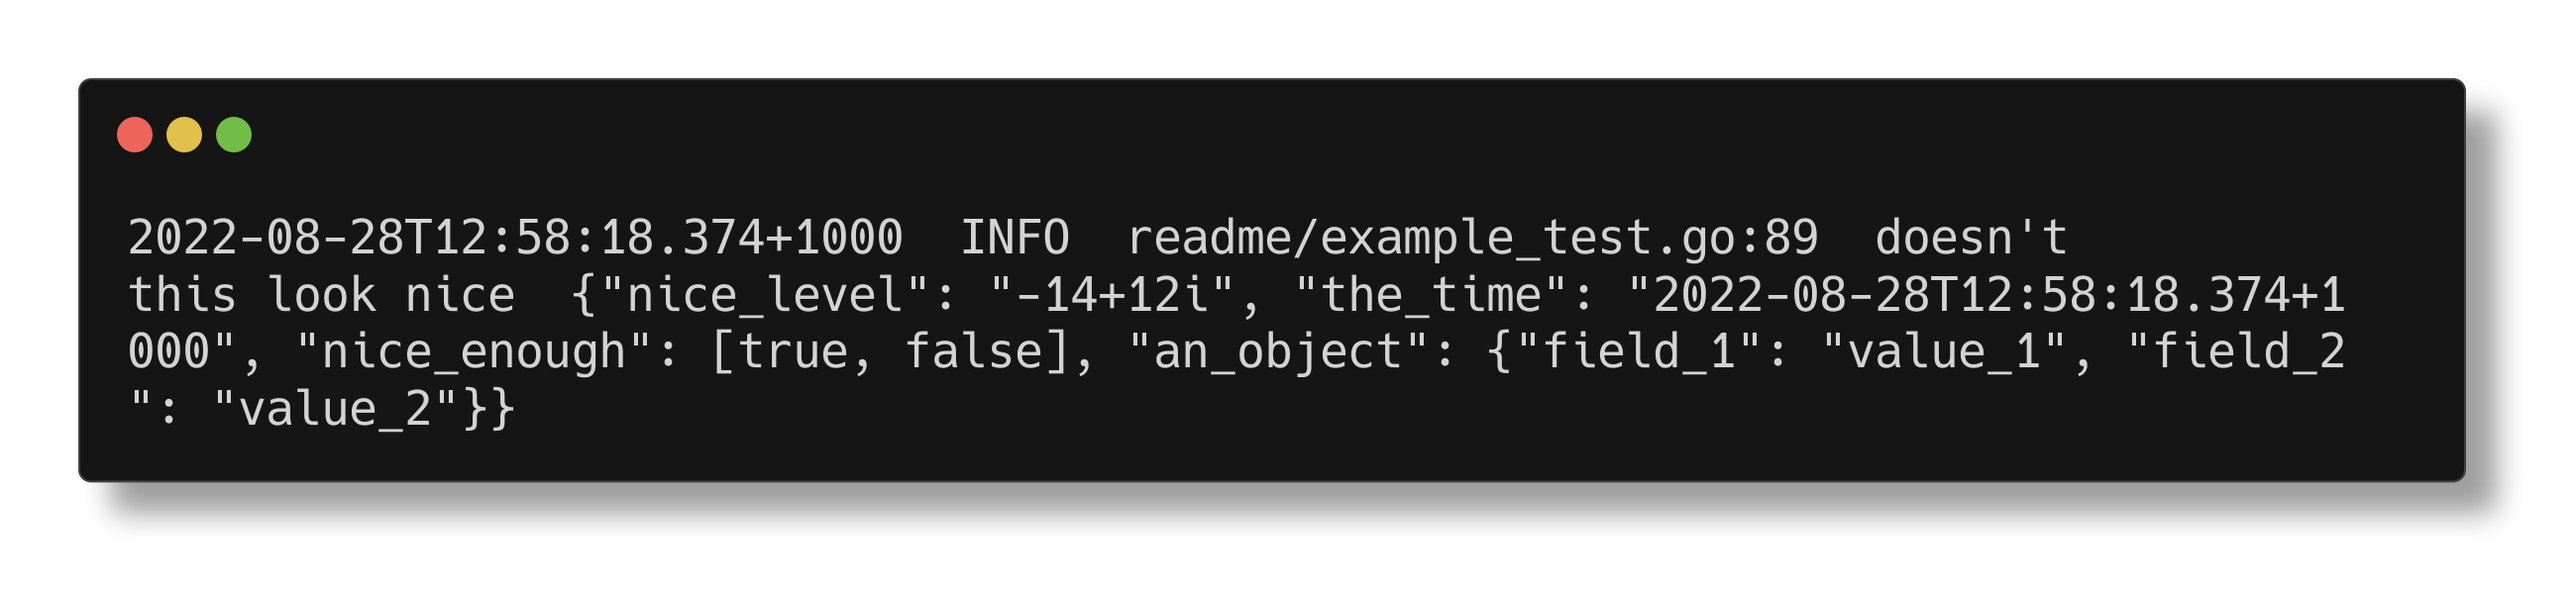
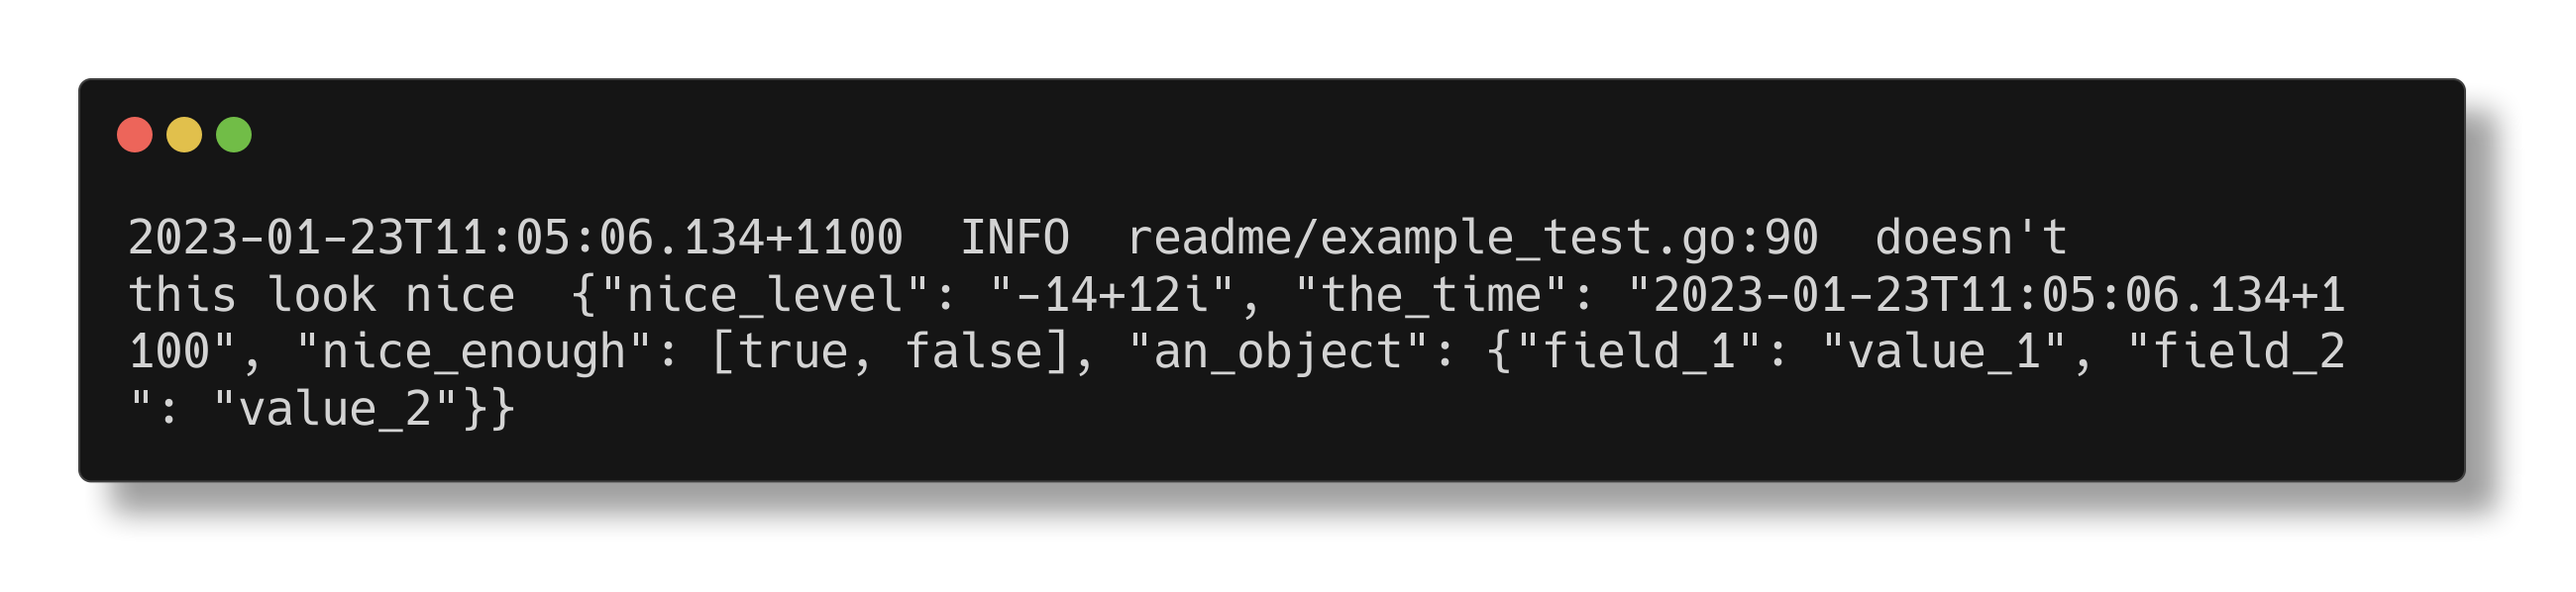
Update docs

diff --git a/internal/readme/example_test.go b/internal/readme/example_test.go
@@ -6,10 +6,11 @@ import (
 	"time"
 
 	"github.com/pkg/errors"
-	"github.com/thessem/zap-prettyconsole"
 	"go.uber.org/multierr"
 	"go.uber.org/zap"
 	"go.uber.org/zap/zapcore"
+
+	"github.com/thessem/zap-prettyconsole"
 )
 
 type User struct {

diff --git a/README.md b/README.md
@@ -1,18 +1,18 @@
 # :zap: :nail_care: zap-prettyconsole - Pretty Console Output For Zap
 
-This is an encoder for Uber's [zap][zap] logger that makes complex log output
-easily readable by humans. This is a logger for developers and prioritises
-displaying information in a clean and easy to understand way.
+An encoder for Uber's [zap] logger that makes complex structured log output easily readable by humans.
+It prioritises displaying information in a clean and easy-to-understand way.
 
+You get good-looking, colourised output like this:
 ![singleLine](https://github.com/thessem/zap-prettyconsole/blob/main/internal/readme/images/SingleLine.png?raw=true)
 
-This is intended as a development tool, for the same reason zap provide a
-"development" logger and a "production" logger. It will hopefully make
-figuring out what your program is doing while it's sitting on your local
-computer easier, and the power of zap's JSON output will make it easy to
-monitor your application while it's running remotely.
-
+When your log output contains structured data, it looks like this:
 ![simple](https://github.com/thessem/zap-prettyconsole/blob/main/internal/readme/images/Simple.png?raw=true)
+
+I personally feel the above is much more readable than the default "development" logger that comes with zap, which looks like this:
+![zap_console](https://github.com/thessem/zap-prettyconsole/blob/main/internal/readme/images/ZapConsole.png?raw=true)
+
+The above example was generated using:
 ```go
 package main
 
@@ -22,7 +22,11 @@ import (
 )
 
 func main() {
+	// Instead of zap.NewDevelopment()
 	logger := prettyconsole.NewLogger(zap.DebugLevel)
+
+	// I normally use the un-sugared logger. I like the type-safety.
+	// You can use logger.Sugar() if you prefer though!
 	logger.Info("doesn't this look nice",
 		zap.Complex64("nice_level", 12i-14),
 		zap.Time("the_time", time.Now()),
@@ -34,15 +38,14 @@ func main() {
 }
 ```
 
-The above can be compared to using the zap logger in its normal development
-mode, which just shows you the data in a JSON string. This quickly gets
-hard to read!
-![zap_console](https://github.com/thessem/zap-prettyconsole/blob/main/internal/readme/images/ZapConsole.png?raw=true)
+This is intended as a tool for local development, and not for running in production.
+In production I reccomend you use zap's built in JSON mode.
+Your logs in production will be getting parsed by computers, not humans, after-all.
+Take a look at the [zap advanced configuration] example to configure zap to output "human" output locally, and "machine" output in production.
 
-This package takes particular care to represent structural information with
-indents and newlines (slightly YAML style), hopefully making it easy to figure
-out what each key-value belongs to:
+This package takes particular care to represent structural information with indents and newlines (slightly YAML style), hopefully making it easy to figure out what each key-value belongs to:
 ![object](https://github.com/thessem/zap-prettyconsole/blob/main/internal/readme/images/Object.png?raw=true)
+which is the output of
 ```go
 type User struct {
 	Name    string
@@ -97,64 +100,54 @@ func main() {
 }
 ```
 
-This encoder was inspired by trying to parse multiple `github.com/pkg/errors/`
-errors, each with their own stacktraces. I am a big fan of error wrapping and
-error stacktraces, I am not a fan of needing to copy text out of my terminal to
-see what happened.
+This encoder was inspired by trying to parse multiple `github.com/pkg/errors/` errors, each with their own stacktraces.
+I am a big fan of error wrapping and error stacktraces, I am not a fan of needing to copy text out of my terminal to see what happened.
 ![errors](https://github.com/thessem/zap-prettyconsole/blob/main/internal/readme/images/Errors.png?raw=true)
 
-When objects that do not satisfy `ObjectMarshaler` are logged, zap-prettyconsole
-will use reflection (via the delightful [dd][dd] library) to print it instead:
+When objects that do not satisfy `ObjectMarshaler` are logged, zap-prettyconsole will use reflection (via the delightful [dd][dd] library) to print it instead:
 ![reflection](https://github.com/thessem/zap-prettyconsole/blob/main/internal/readme/images/Reflection.png?raw=true)
 
-This encoder respects all the normal encoder configuration settings. You can
-change your separator character, newline characters, add caller/function
-information and add stacktraces if you like.
+This encoder respects all the normal encoder configuration settings.
+You can change your separator character, newline characters, add caller/function information and add stacktraces if you like.
 
 ![configuration](https://github.com/thessem/zap-prettyconsole/blob/main/internal/readme/images/Configuration.png?raw=true)
 
 ## Performance
 
-Whilst this library is described as "development mode" it is still coded to be
-as performant as possible, saving your CPU cycles for running lots of IDE
-plugins.
+Whilst this library is described as "development mode" it is still coded to be as performant as possible, saving your CPU cycles for running lots of IDE plugins.
 
-The extra allocations are mostly due to sorting the fields in alphabetical
-order, which I think is worth it as a trade-off.
+The main performance overhead introduced with this encoder is because of the stable field ordering, we sort every structured log field alphabetically.
+Although the relative overhead is high, the absolute overhead is still quite small, and probably wont matter for development logging anyway!
 
 Log a message and 10 fields:
 
 | Package | Time | Time % to zap | Objects Allocated |
 | :------ | :--: | :-----------: | :---------------: |
-| :zap: zap | 624 ns/op | +0% | 5 allocs/op
-| :zap: zap (sugared) | 923 ns/op | +48% | 10 allocs/op
-| :zap: :nail_care: zap-prettyconsole | 1825 ns/op | +192% | 12 allocs/op
-| :zap: :nail_care: zap-prettyconsole (sugared) | 2123 ns/op | +240% | 17 allocs/op
+| :zap: zap | 1459 ns/op | +0% | 5 allocs/op
+| :zap: zap (sugared) | 1966 ns/op | +35% | 10 allocs/op
+| :zap: :nail_care: zap-prettyconsole | 4681 ns/op | +221% | 12 allocs/op
+| :zap: :nail_care: zap-prettyconsole (sugared) | 5458 ns/op | +274% | 17 allocs/op
 
 Log a message with a logger that already has 10 fields of context:
 
 | Package | Time | Time % to zap | Objects Allocated |
 | :------ | :--: | :-----------: | :---------------: |
-| :zap: zap | 72 ns/op | +0% | 0 allocs/op
-| :zap: zap (sugared) | 83 ns/op | +15% | 1 allocs/op
-| :zap: :nail_care: zap-prettyconsole | 1510 ns/op | +1997% | 7 allocs/op
-| :zap: :nail_care: zap-prettyconsole (sugared) | 1516 ns/op | +2006% | 8 allocs/op
+| :zap: zap | 141 ns/op | +0% | 0 allocs/op
+| :zap: zap (sugared) | 180 ns/op | +28% | 1 allocs/op
+| :zap: :nail_care: zap-prettyconsole (sugared) | 4389 ns/op | +3013% | 8 allocs/op
+| :zap: :nail_care: zap-prettyconsole | 4495 ns/op | +3088% | 7 allocs/op
 
 Log a static string, without any context or `printf`-style templating:
 
 | Package | Time | Time % to zap | Objects Allocated |
 | :------ | :--: | :-----------: | :---------------: |
-| :zap: :nail_care: zap-prettyconsole | 56 ns/op | -14% | 0 allocs/op
-| :zap: zap | 65 ns/op | +0% | 0 allocs/op
-| :zap: :nail_care: zap-prettyconsole (sugared) | 75 ns/op | +15% | 1 allocs/op
-| :zap: zap (sugared) | 79 ns/op | +22% | 1 allocs/op
-
-## Current Status
-I think this project is mostly working. I have not used it for any serious
-development yet. I make no promises about a lack of bugs or memory leaks (but
-everything seems okay to me). Happily accepting issues and suggestions.
+| :zap: zap | 134 ns/op | +0% | 0 allocs/op
+| :zap: :nail_care: zap-prettyconsole | 143 ns/op | +7% | 0 allocs/op
+| :zap: :nail_care: zap-prettyconsole (sugared) | 175 ns/op | +31% | 1 allocs/op
+| :zap: zap (sugared) | 180 ns/op | +34% | 1 allocs/op
 
 Released under the [MIT License](LICENSE.txt)
 
 [zap]: https://github.com/uber-go/zap
+[zap advanced configuration]: https://pkg.go.dev/go.uber.org/zap#example-package-AdvancedConfiguration
 [dd]: https://github.com/Code-Hex/dd
